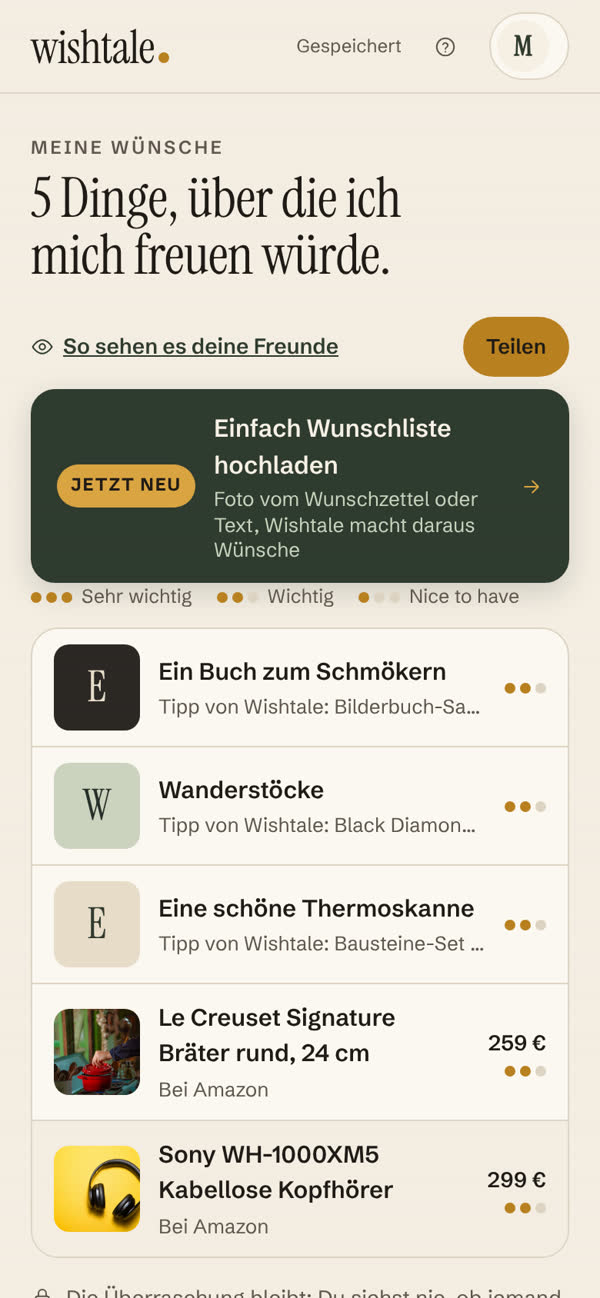
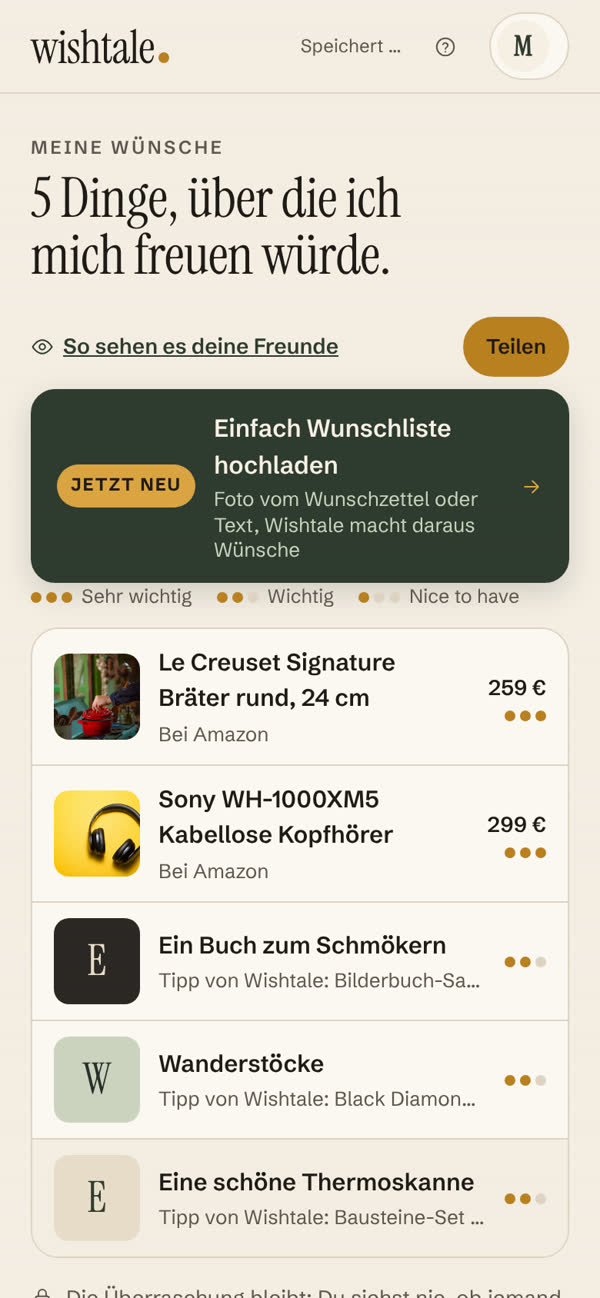
Landingpage: durchgehend Mia wie im Reel, vier Schritte mit Produktansicht (086)
Claude-Session: https://claude.ai/code/session_01SYv7KzvbXUAkPAj8WHgPpk

diff --git a/index.html b/index.html
@@ -30,23 +30,27 @@
       <div class="row herocta"><a class="btn pri big" href="app/#start"><span data-edit="hero.cta">Kostenlos Wunschliste anlegen</span> <svg class="ico sm" viewBox="0 0 24 24" aria-hidden="true"><path d="M5 12h14M13 6l6 6-6 6"/></svg></a><a class="btn ghost" href="app/#p/jonas" data-edit="hero.link1">Beispiel ansehen</a></div>
       <p class="heromini" data-edit="hero.mini">Kostenlos und ohne App-Download, in wenigen Minuten fertig.</p>
     </div>
-    <div class="pstage" id="stage" role="group" aria-roledescription="Vorführung" aria-label="So sieht Wishtale aus, drei Ansichten aus der App">
+    <div class="pstage" id="stage" role="group" aria-roledescription="Vorführung" aria-label="So sieht Wishtale aus, vier Ansichten aus der App">
       <div class="sscenes">
         <section class="vs on" data-label="Wunschzettel hochladen" aria-label="Wunschzettel hochladen">
-          <div class="phone2"><img src="/landing/ergebnis.jpg" alt="Wunschzettel von Mia, von Wishtale eingelesen: fünf Wünsche, zwei davon mit erkanntem Produkt und Preis" width="600" height="1298" fetchpriority="high" decoding="async"></div>
+          <div class="phone2"><img src="/landing/ergebnis.jpg" alt="Der Wunschzettel von Mia, von Wishtale eingelesen: fünf Wünsche, zwei davon mit erkanntem Produkt und Preis" width="600" height="1298" fetchpriority="high" decoding="async"></div>
           <div class="pguide"><b data-edit="hero.g1t">Wunschzettel hochladen</b><span data-edit="hero.g1p">Foto vom Zettel oder Text einfügen, Wishtale liest die einzelnen Wünsche heraus und erkennt konkrete Produkte.</span></div>
         </section>
         <section class="vs" data-label="Deine Wunschliste steht" aria-label="Deine Wunschliste steht">
-          <div class="phone2"><img src="/landing/liste.jpg" alt="Die fertige Wunschliste mit fünf Wünschen, zwei mit Produktbild und Preis" width="600" height="1298" loading="lazy" decoding="async"></div>
-          <div class="pguide"><b data-edit="hero.g2t">Deine Wunschliste steht</b><span data-edit="hero.g2p">Mit Bild und Preis, wo es ein konkretes Produkt gibt. Teilen geht mit einem Link, ganz ohne App.</span></div>
+          <div class="phone2"><img src="/landing/liste.jpg" alt="Die fertige Wunschliste von Mia, oben zwei Produkte mit Bild und Preis" width="600" height="1298" loading="lazy" decoding="async"></div>
+          <div class="pguide"><b data-edit="hero.g2t">Deine Wunschliste steht</b><span data-edit="hero.g2p">Konkrete Wünsche erscheinen gleich als echtes Produkt mit Bild und Preis.</span></div>
+        </section>
+        <section class="vs" data-label="Das echte Produkt" aria-label="Das echte Produkt">
+          <div class="phone2"><img src="/landing/produkt.jpg" alt="Die Produktansicht der Kopfhörer mit Bild, Preis und Link zu Amazon" width="600" height="1298" loading="lazy" decoding="async"></div>
+          <div class="pguide"><b data-edit="hero.g3t">Das echte Produkt</b><span data-edit="hero.g3p">Ein Tipp auf den Wunsch zeigt das Produkt mit Preis und Link zum Shop.</span></div>
         </section>
         <section class="vs" data-label="Freunde finden das Richtige" aria-label="Freunde finden das Richtige">
-          <div class="phone2"><img src="/landing/gast.jpg" alt="So sehen Freunde die Wunschliste von Jonas, ein Wunsch ist schon reserviert" width="600" height="1298" loading="lazy" decoding="async"></div>
-          <div class="pguide"><b data-edit="hero.g3t">Freunde finden das Richtige</b><span data-edit="hero.g3p">Sie sehen deine Wünsche und was dich ausmacht, reservieren anonym, und die Überraschung bleibt.</span></div>
+          <div class="phone2"><img src="/landing/freunde.jpg" alt="So sehen Freunde die Wunschliste von Mia" width="600" height="1298" loading="lazy" decoding="async"></div>
+          <div class="pguide"><b data-edit="hero.g4t">Freunde finden das Richtige</b><span data-edit="hero.g4p">Mit einem Link sehen sie deine Wünsche und was dich ausmacht, reservieren anonym, und die Überraschung bleibt.</span></div>
         </section>
       </div>
-      <div class="ptabs"><div class="stab-row" role="group" aria-label="Ansicht wählen"><button type="button" class="stab on" data-i="0" aria-pressed="true"><i>1</i>Hochladen</button><button type="button" class="stab" data-i="1" aria-pressed="false"><i>2</i>Liste</button><button type="button" class="stab" data-i="2" aria-pressed="false"><i>3</i>Für Freunde</button></div><button type="button" class="spause" id="spause" aria-label="Vorführung anhalten">Anhalten</button></div>
-      <p class="pnote" data-edit="hero.demo">Echte Ansichten aus der App mit Beispielpersonen</p>
+      <div class="ptabs"><div class="stab-row" role="group" aria-label="Ansicht wählen"><button type="button" class="stab on" data-i="0" aria-pressed="true"><i>1</i>Hochladen</button><button type="button" class="stab" data-i="1" aria-pressed="false"><i>2</i>Liste</button><button type="button" class="stab" data-i="2" aria-pressed="false"><i>3</i>Produkt</button><button type="button" class="stab" data-i="3" aria-pressed="false"><i>4</i>Für Freunde</button></div><button type="button" class="spause" id="spause" aria-label="Vorführung anhalten">Anhalten</button></div>
+      <p class="pnote" data-edit="hero.demo">Echte Ansichten aus der App mit einer Beispielperson und Beispielpreisen</p>
       <p class="vh" id="slive" aria-live="polite"></p>
     </div>
   </div></section>

diff --git a/src/styles/main.css b/src/styles/main.css
@@ -1131,3 +1131,4 @@ input[type=checkbox],input[type=radio]{accent-color:var(--accent);width:18px;hei
 .pstage .sscenes{height:auto;min-height:0;overflow:visible}
 .pstage .sscenes::after{display:none}
 @media(min-width:900px){.ptabs{flex-wrap:nowrap}}
+@media(max-width:480px){.pstage .stab{padding:6px 10px;font-size:12.5px}.pstage .stab i{width:18px;height:18px}}

diff --git a/docs/tribunal/086-landing-fokus-produkt/urteil.md b/docs/tribunal/086-landing-fokus-produkt/urteil.md
@@ -13,3 +13,5 @@ umgesetzt: 41e62c0
 - Texte bleiben über die vorhandenen `data-edit`-Schlüssel bearbeitbar, neue Schlüssel: `hero.neu`, `hero.cta`, `hero.mini`, `hero.g1t` bis `hero.g3p`, `cta.btn`, `sticky.cta`. Keine Schlüssel umbenannt.
 - Messung: Klicks auf alle Knöpfe zur App werden wie bisher als `cta` gezählt, UTM-Kürzel aus der Werbung reisen mit (Auswertung im CMS).
 Getestet mit Playwright (390 und 1280 px): keine waagerechte Verschiebung, Reiter schalten, klebender Knopf erscheint und verschwindet, axe ohne Befund. Nicht getestet: echtes Gerät, Ladezeit unter echter Mobilverbindung.
+
+**Nachbesserung (Janns Rückmeldung: „Einmal haben wir Mia und einmal Jonas, und man sieht nicht das echte Produkt, wie im Reel soll es sein“):** Alle Ansichten zeigen jetzt dieselbe Beispielperson Mia wie im Reel, in vier Schritten: 1 Hochladen (eingelesener Zettel mit erkannten Produkten), 2 Liste (die beiden Produkte mit Bild und Preis oben, weil Mia sie als „Sehr wichtig“ markiert hat), 3 Produkt (Produktansicht der Kopfhörer mit Preis und „Bei Amazon ansehen“), 4 Für Freunde (Mias Seite, wie Freunde sie sehen). Die Bilder entstehen mit demselben Skript wie das Reel (`npm run promo:zettel`, Aufnahmen in `promo/out/_shots`), Hinweis darunter: „Echte Ansichten aus der App mit einer Beispielperson und Beispielpreisen“.
